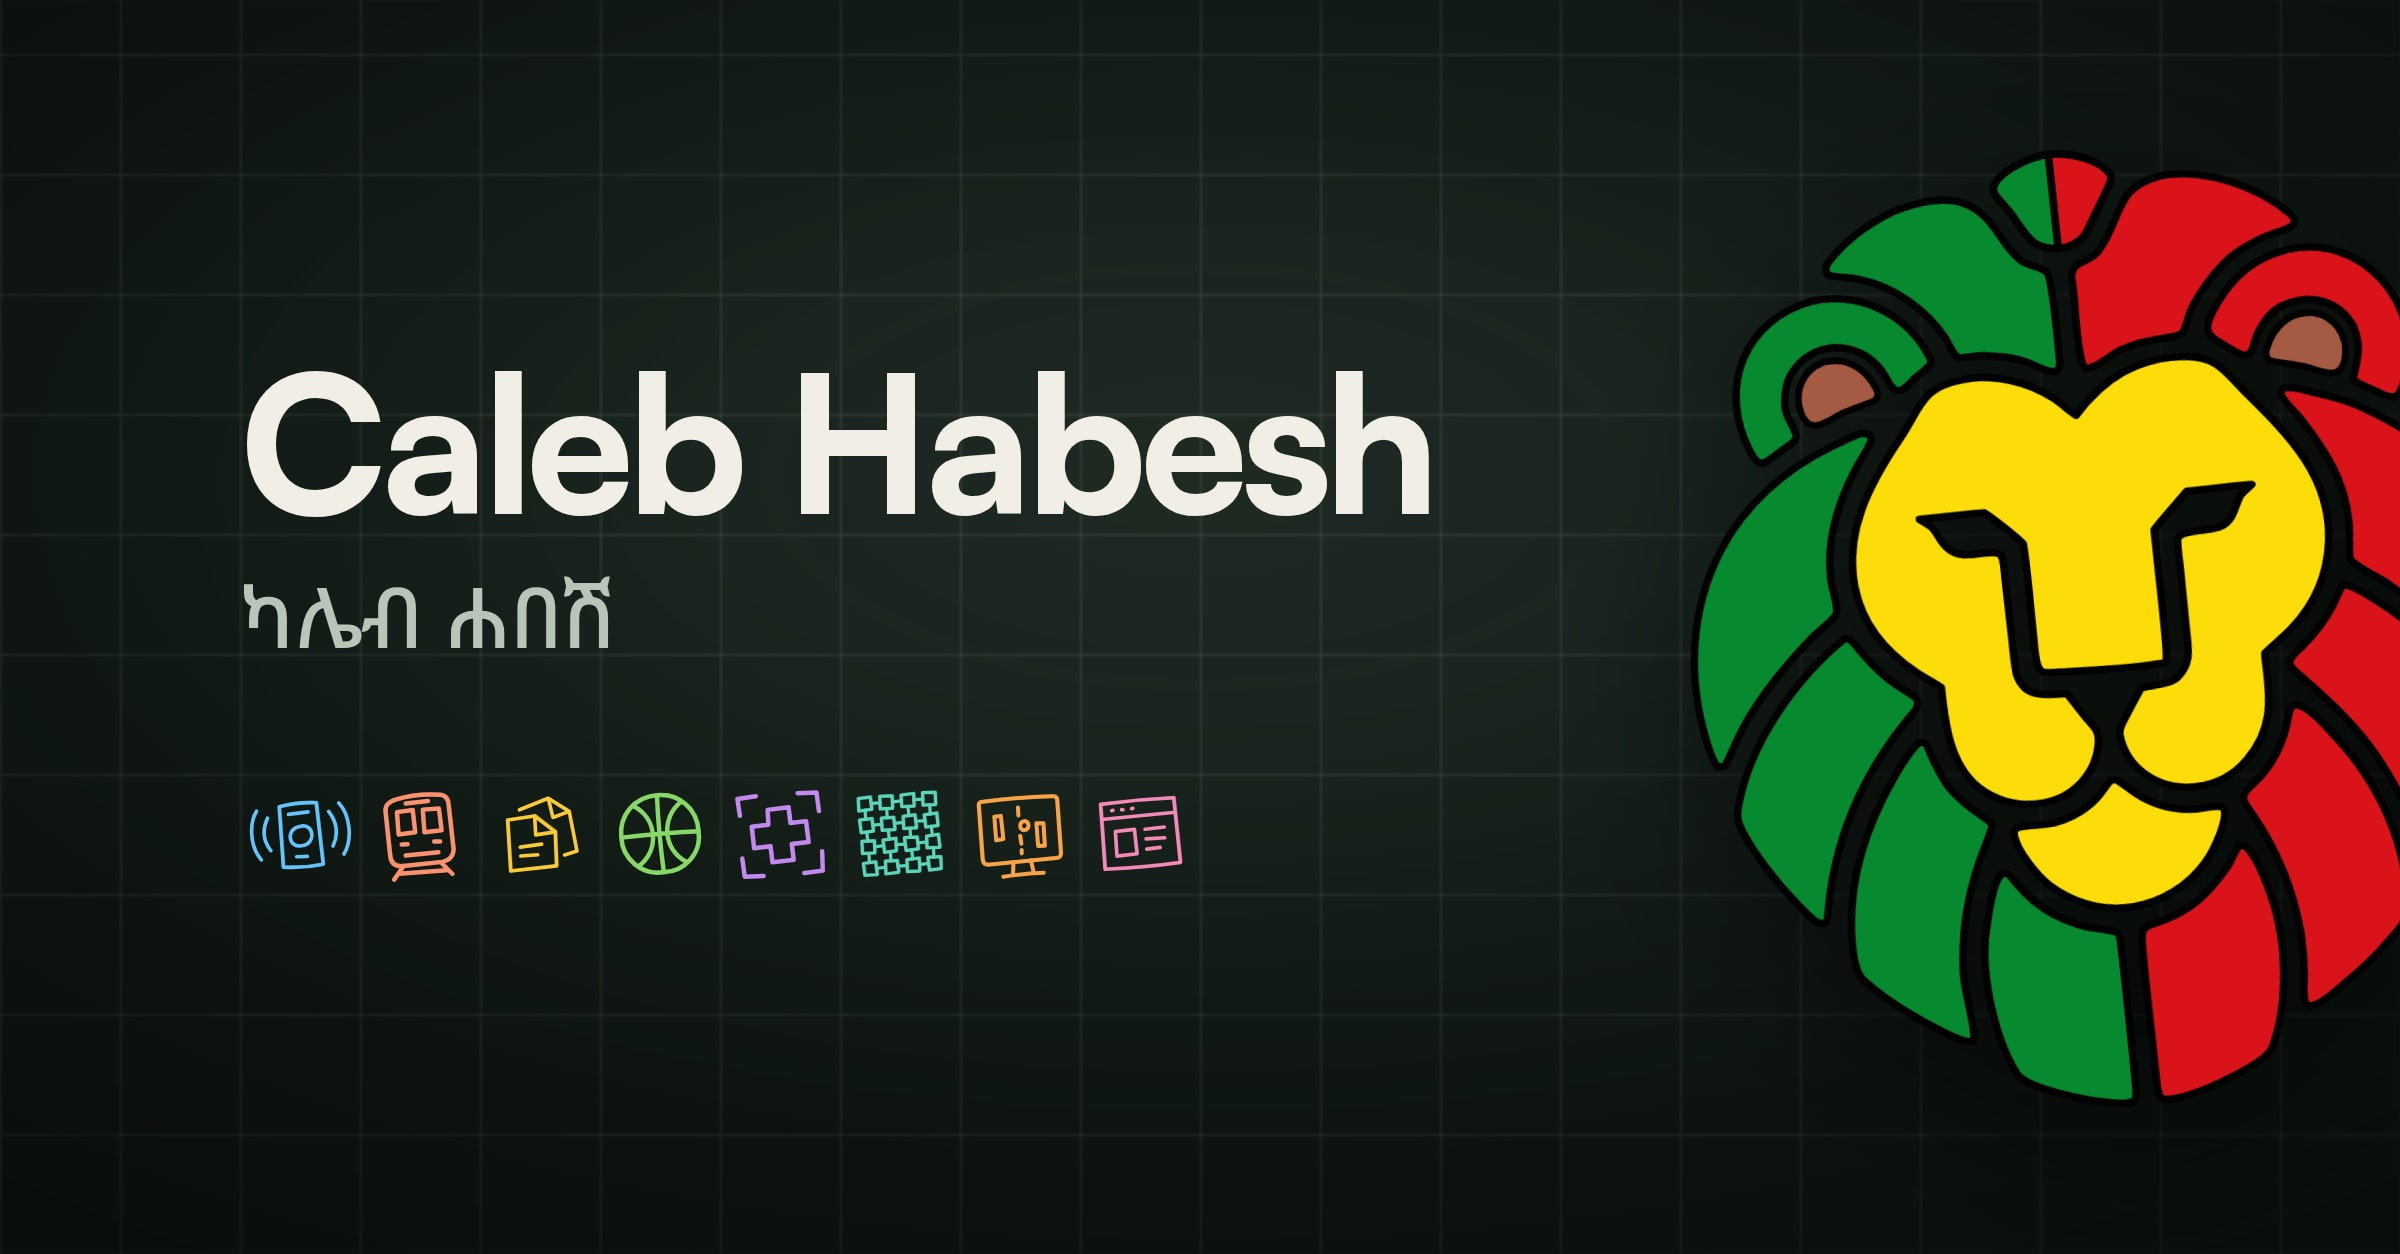
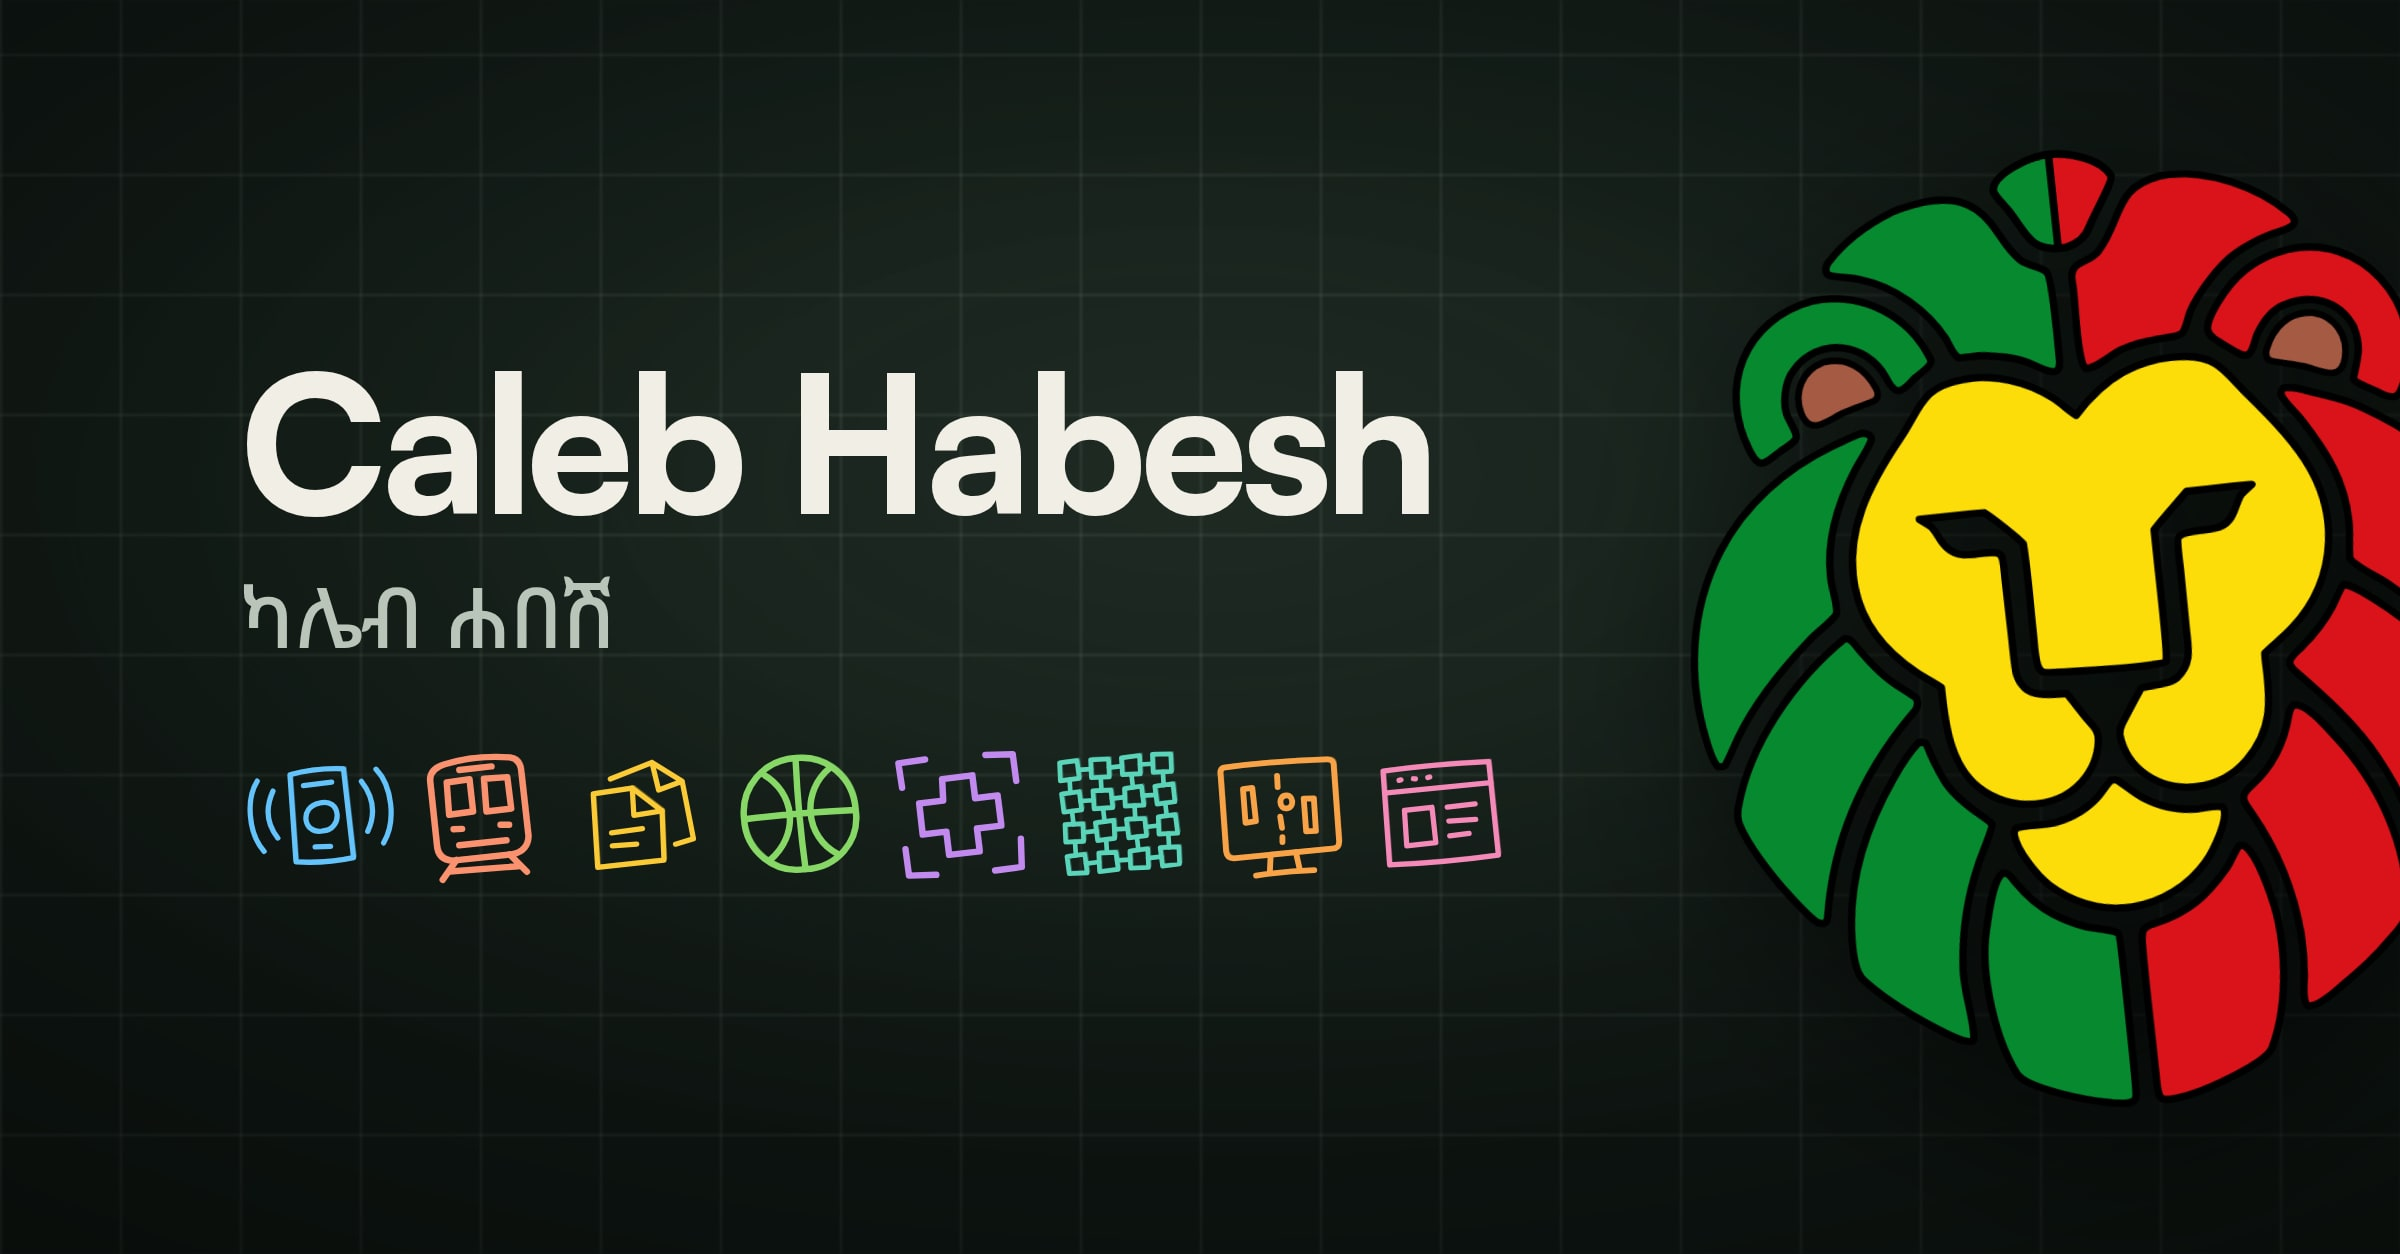
Enlarge the link-preview sketches to rest on a grid line

Changed region(s): [[0.0938, 0.5909, 0.625, 0.7153]]

diff --git a/index.html b/index.html
@@ -50,7 +50,7 @@
     />
     <meta property="og:type" content="website" />
     <meta property="og:url" content="https://calebhabesh.com/" />
-    <meta property="og:image" content="https://calebhabesh.com/og-image.jpg?v=4347a8a50853" />
+    <meta property="og:image" content="https://calebhabesh.com/og-image.jpg?v=09a03119984b" />
     <meta property="og:image:width" content="2400" />
     <meta property="og:image:height" content="1254" />
     <meta property="og:image:alt" content="Caleb Habesh in English and Ge'ez above sketches of eight projects, beside the lion emblem on the site's dark grid." />
